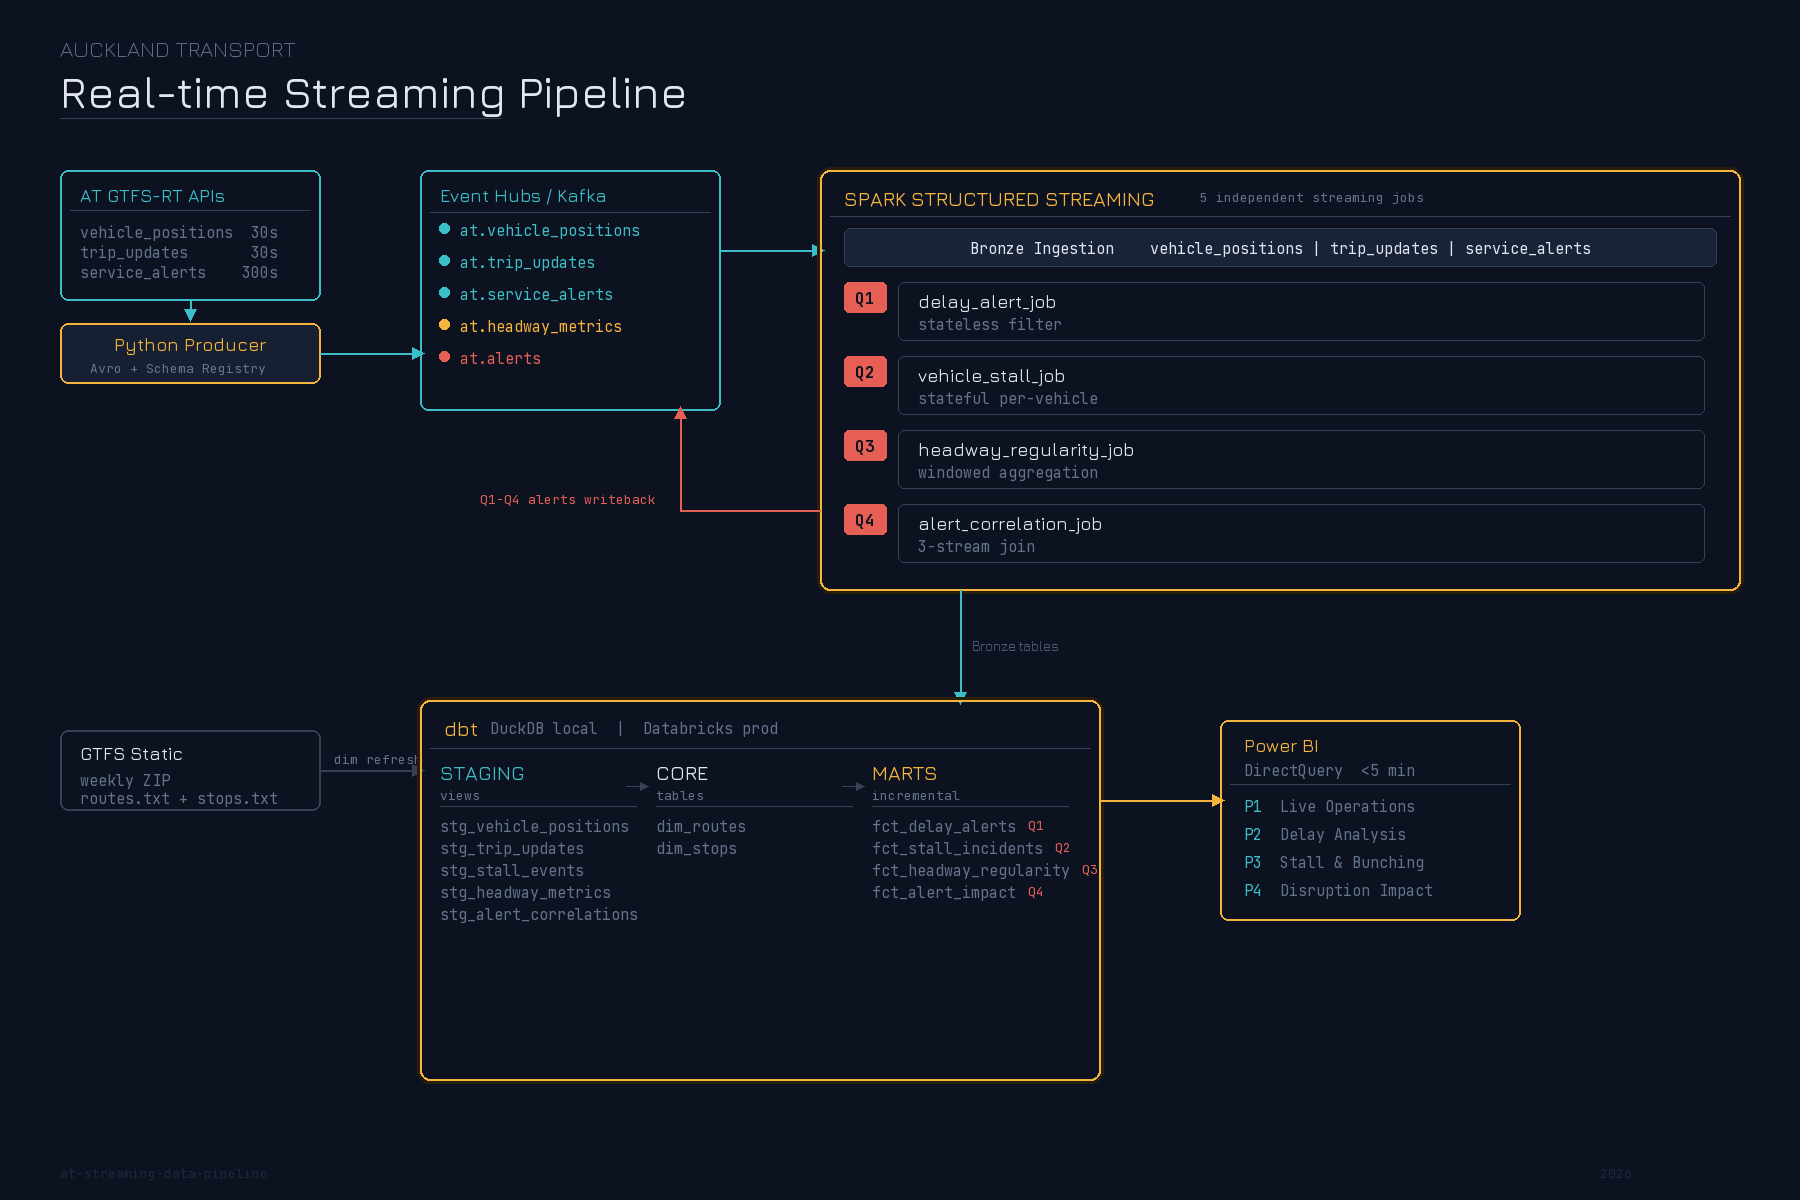
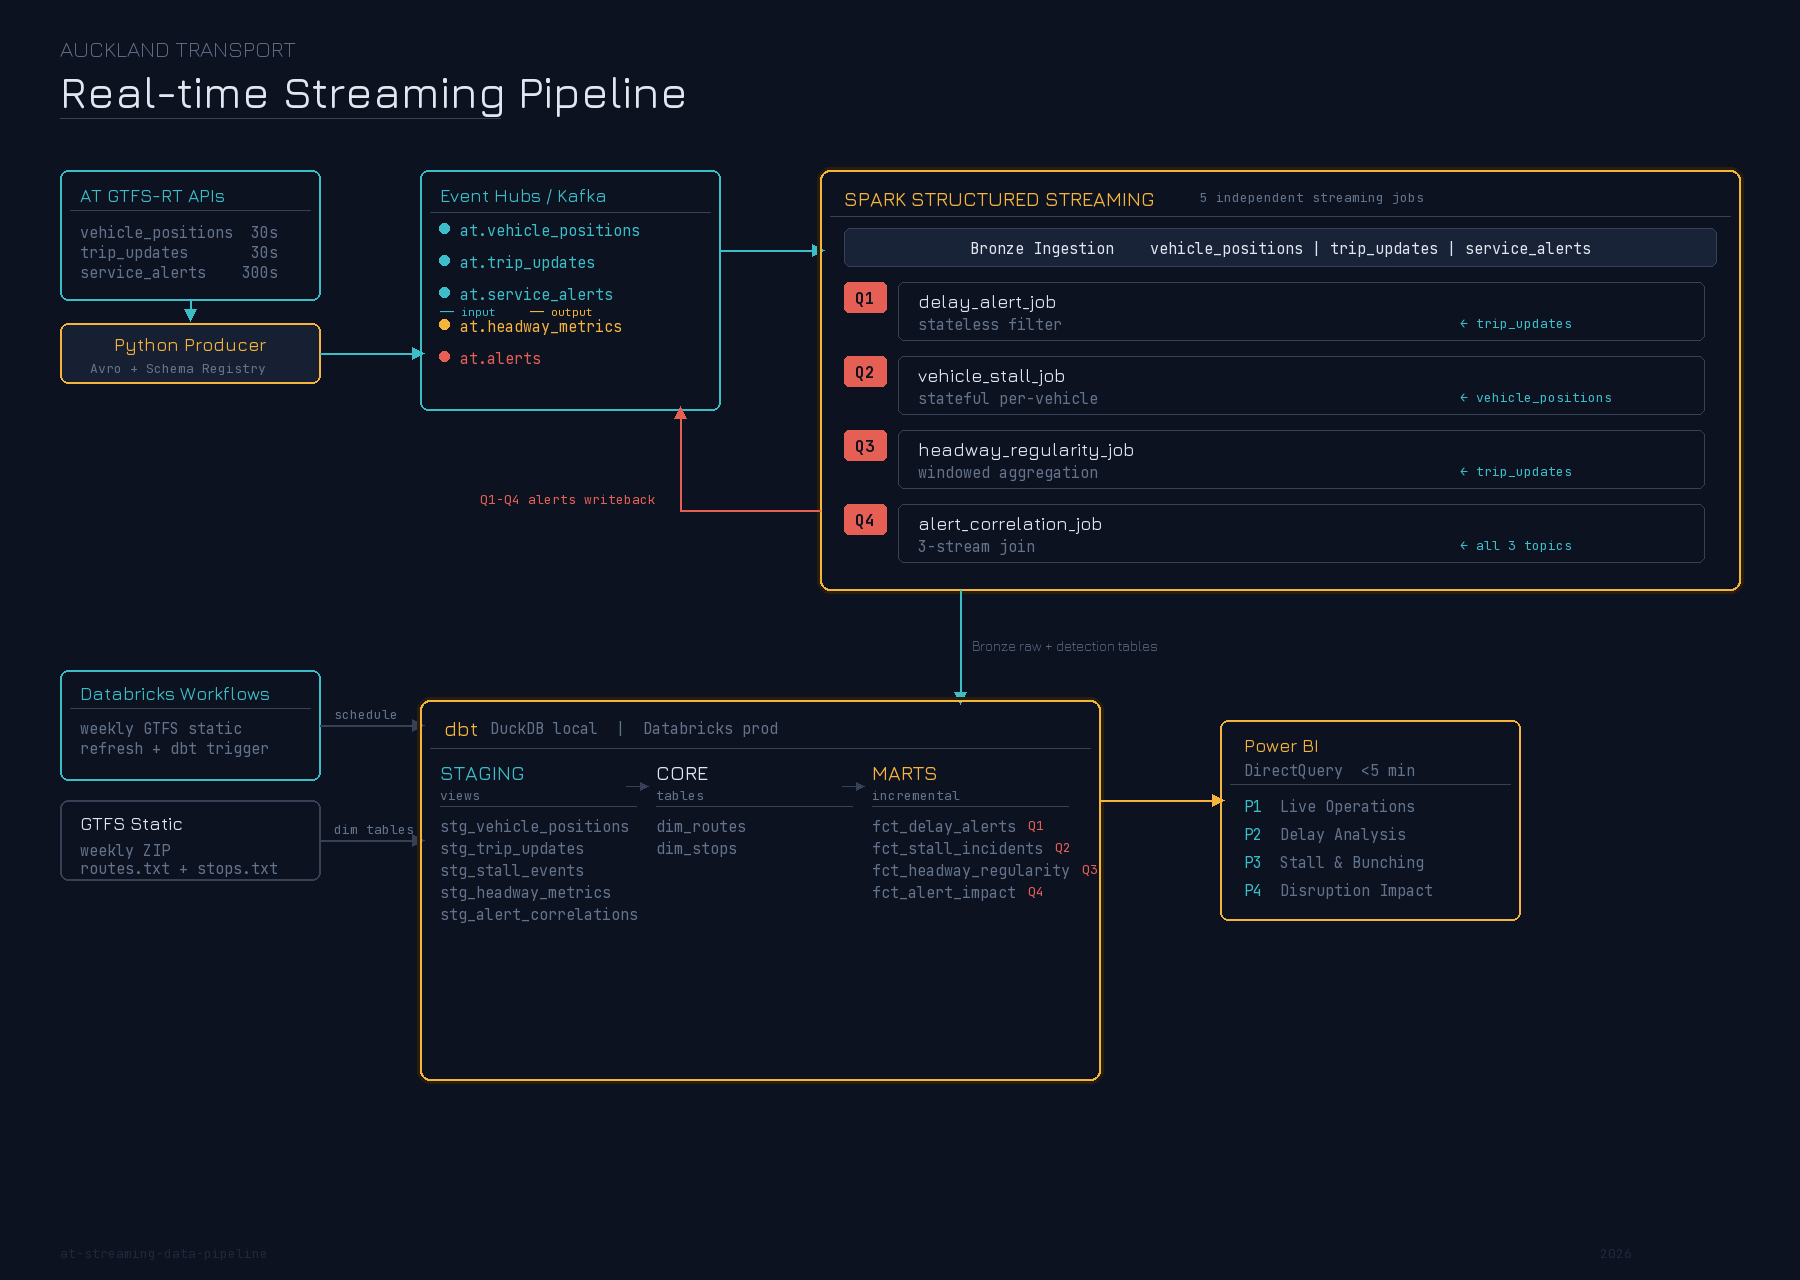
refactor: replace Airflow with Databricks Workflows for batch orchestration

diff --git a/docs/generate_architecture.py b/docs/generate_architecture.py
@@ -2,7 +2,7 @@
 
 from PIL import Image, ImageDraw, ImageFont
 
-W, H = 1800, 1200
+W, H = 1800, 1280
 BG = (12, 18, 32)
 AMBER = (245, 180, 60)
 TEAL = (60, 190, 200)
@@ -23,6 +23,7 @@ f_body = ImageFont.truetype(f"{FONT_DIR}/JetBrainsMono-Regular.ttf", 15)
 f_small = ImageFont.truetype(f"{FONT_DIR}/JetBrainsMono-Regular.ttf", 13)
 f_q = ImageFont.truetype(f"{FONT_DIR}/JetBrainsMono-Bold.ttf", 16)
 f_label = ImageFont.truetype(f"{FONT_DIR}/Jura-Light.ttf", 14)
+f_tiny = ImageFont.truetype(f"{FONT_DIR}/JetBrainsMono-Regular.ttf", 11)
 
 
 def rrect(x, y, w, h, r=8, fill=None, outline=None, width=1):
@@ -104,12 +105,19 @@ topics = [
     ("at.headway_metrics", AMBER),
     ("at.alerts", CORAL),
 ]
+# Track topic y positions for input arrows
+topic_ys = {}
 for i, (t, c) in enumerate(topics):
     ty = kafka_y + 50 + i * 32
+    topic_ys[t] = ty + 8
     dot(kafka_x+24, ty+8, 5, c)
     draw.text((kafka_x+40, ty), t, fill=c, font=f_body)
 
-# Kafka → Spark (horizontal)
+# Input/output labels
+draw.text((kafka_x+20, kafka_y + 50 + 2*32 + 20), "── input", fill=TEAL, font=f_tiny)
+draw.text((kafka_x+110, kafka_y + 50 + 2*32 + 20), "── output", fill=AMBER, font=f_tiny)
+
+# Kafka → Spark (horizontal to Bronze ingestion)
 kafka_right = kafka_x + kafka_w
 spark_x = 820
 spark_conn_y = kafka_y + 80
@@ -127,52 +135,67 @@ draw.text((spark_x+24, spark_y+16), "SPARK STRUCTURED STREAMING", fill=AMBER, fo
 draw.text((spark_x+380, spark_y+18), "5 independent streaming jobs", fill=DIM, font=f_small)
 hline(spark_x+10, spark_x+spark_w-10, spark_y+46, SLATE, 1)
 
-# Bronze ingestion bar — full names
+# Bronze ingestion bar
 rrect(spark_x+24, spark_y+58, spark_w-48, 38, r=6, fill=(25, 35, 55), outline=SLATE, width=1)
 ctxt("Bronze Ingestion    vehicle_positions | trip_updates | service_alerts",
      f_body, spark_x+spark_w//2, spark_y+68, WHITE)
 
-# Q1-Q4 jobs (no dots)
+# Q1-Q4 jobs with source topic annotations
 jobs = [
-    ("Q1", "delay_alert_job", "stateless filter"),
-    ("Q2", "vehicle_stall_job", "stateful per-vehicle"),
-    ("Q3", "headway_regularity_job", "windowed aggregation"),
-    ("Q4", "alert_correlation_job", "3-stream join"),
+    ("Q1", "delay_alert_job", "stateless filter", "← trip_updates"),
+    ("Q2", "vehicle_stall_job", "stateful per-vehicle", "← vehicle_positions"),
+    ("Q3", "headway_regularity_job", "windowed aggregation", "← trip_updates"),
+    ("Q4", "alert_correlation_job", "3-stream join", "← all 3 topics"),
 ]
-for i, (q, name, pattern) in enumerate(jobs):
+for i, (q, name, pattern, source) in enumerate(jobs):
     jy = spark_y + 112 + i * 74
     rrect(spark_x+24, jy, 42, 30, r=5, fill=CORAL)
     ctxt(q, f_q, spark_x+45, jy+5, BG)
     rrect(spark_x+78, jy, spark_w-114, 58, r=6, outline=SLATE, width=1)
     draw.text((spark_x+98, jy+8), name, fill=WHITE, font=f_node)
     draw.text((spark_x+98, jy+32), pattern, fill=DIM, font=f_body)
+    # Source topic annotation on right side of job box
+    draw.text((spark_x+spark_w-280, jy+32), source, fill=TEAL, font=f_small)
 
 # === RED LINE: Spark Q1-Q4 → at.alerts (exits Spark LEFT, one turn up) ===
-# Route: Spark left edge → left to align with Kafka → straight up into Kafka
-red_exit_y = spark_y + 340  # between Q3 and Q4 on left edge
-kafka_alerts_x = kafka_x + kafka_w - 40  # right side of Kafka, near at.alerts
+red_exit_y = spark_y + 340
+kafka_alerts_x = kafka_x + kafka_w - 40
 
-# Horizontal from Spark left edge to kafka_alerts_x
 hline(kafka_alerts_x, spark_x, red_exit_y, CORAL)
-# Straight up into Kafka bottom
 vline(kafka_alerts_x, kafka_y + kafka_h, red_exit_y, CORAL)
 arrow_u(kafka_alerts_x, kafka_y + kafka_h + 2, CORAL, 6)
-# Label
 draw.text((kafka_alerts_x - 200, red_exit_y - 20), "Q1-Q4 alerts writeback", fill=CORAL, font=f_small)
 
-# === BLUE LINE: Spark → dbt (straight down, inside overlap zone) ===
+# === BLUE LINE: Spark → dbt (straight down) ===
 R2 = 700
-# Spark: x=820..1740, dbt: x=420..1100 → overlap: 820..1100
-bridge_x = 960  # inside both Spark and dbt, straight vertical line
+bridge_x = 960
 
 vline(bridge_x, spark_y + spark_h, R2, TEAL)
 arrow_d(bridge_x, R2 - 2, TEAL, 6)
-draw.text((bridge_x + 12, (spark_y + spark_h + R2) // 2 - 8), "Bronze tables", fill=DIM, font=f_label)
+draw.text((bridge_x + 12, (spark_y + spark_h + R2) // 2 - 8),
+          "Bronze raw + detection tables", fill=DIM, font=f_label)
 
 # === ROW 2 ===
 
+# === Databricks Workflows ===
+wf_x, wf_y = 60, R2 - 30
+wf_w, wf_h = 260, 110
+rrect(wf_x, wf_y, wf_w, wf_h, outline=TEAL, width=2)
+draw.text((wf_x+20, wf_y+12), "Databricks Workflows", fill=TEAL, font=f_node)
+hline(wf_x+10, wf_x+wf_w-10, wf_y+38, SLATE, 1)
+draw.text((wf_x+20, wf_y+48), "weekly GTFS static", fill=DIM, font=f_body)
+draw.text((wf_x+20, wf_y+68), "refresh + dbt trigger", fill=DIM, font=f_body)
+
+# Workflows → dbt (horizontal)
+dbt_x = 420
+wf_right = wf_x + wf_w
+wf_conn_y = wf_y + wf_h // 2
+hline(wf_right, dbt_x, wf_conn_y, SLATE, 2)
+arrow_r(dbt_x - 2, wf_conn_y, SLATE, 6)
+draw.text((wf_right + 14, wf_conn_y - 20), "schedule", fill=DIM, font=f_small)
+
 # === GTFS Static ===
-static_x, static_y = 60, R2 + 30
+static_x, static_y = 60, R2 + 100
 static_w, static_h = 260, 80
 rrect(static_x, static_y, static_w, static_h, outline=SLATE, width=2)
 draw.text((static_x+20, static_y+12), "GTFS Static", fill=WHITE, font=f_node)
@@ -181,10 +204,9 @@ draw.text((static_x+20, static_y+58), "routes.txt + stops.txt", fill=DIM, font=f
 
 # GTFS Static → dbt (horizontal)
 static_right = static_x + static_w
-dbt_x = 420
 hline(static_right, dbt_x, static_y + static_h//2, SLATE, 2)
 arrow_r(dbt_x - 2, static_y + static_h//2, SLATE, 6)
-draw.text((static_right + 14, static_y + static_h//2 - 20), "dim refresh", fill=DIM, font=f_small)
+draw.text((static_right + 14, static_y + static_h//2 - 20), "dim tables", fill=DIM, font=f_small)
 
 # === dbt ===
 dbt_w, dbt_h = 680, 380

diff --git a/README.md b/README.md
@@ -4,7 +4,7 @@
 ![Apache Spark](https://img.shields.io/badge/Spark_Structured_Streaming-E25A1C?logo=apachespark&logoColor=white)
 ![Apache Kafka](https://img.shields.io/badge/Kafka-231F20?logo=apachekafka&logoColor=white)
 ![dbt](https://img.shields.io/badge/dbt-FF694B?logo=dbt&logoColor=white)
-![Apache Airflow](https://img.shields.io/badge/Airflow-017CEE?logo=apacheairflow&logoColor=white)
+![Databricks](https://img.shields.io/badge/Databricks_Workflows-FF3621?logo=databricks&logoColor=white)
 ![Delta Lake](https://img.shields.io/badge/Delta_Lake-003366?logo=databricks&logoColor=white)
 ![DuckDB](https://img.shields.io/badge/DuckDB-FFF000?logo=duckdb&logoColor=black)
 ![Power BI](https://img.shields.io/badge/Power_BI-F2C811?logo=powerbi&logoColor=black)
@@ -14,31 +14,30 @@
 
 A streaming-first data pipeline that ingests Auckland Transport GTFS-Realtime data, detects operational anomalies in real time using Spark Structured Streaming, and builds historical analytics with dbt.
 
-Built to demonstrate depth in real-time stream processing — not just batch ETL with a "streaming" label.
+**Why streaming?** AT's GTFS-RT feeds update every 30 seconds. A delay alert delivered 10 minutes late is useless to passengers waiting at the stop; a stalled bus needs dispatch now, not in tomorrow's report. The data naturally demands streaming — this isn't batch ETL with a "streaming" label.
 
 ### Project Status
 
-| Component | Status |
-|-----------|--------|
-| Kafka producer (adaptive polling + Avro) | Done |
-| Spark Bronze ingestion | Done |
-| Spark Q1-Q4 detection jobs | Done |
-| dbt project (skeleton + config) | Done |
-| dbt models (staging, core, marts) | In Progress |
-| GTFS Static dimension tables + seed data | Planned |
-| Airflow DAG (weekly dim refresh) | Planned |
-| Power BI dashboard | Planned |
+| Component                                   | Status  |
+| ------------------------------------------- | ------- |
+| Kafka producer (adaptive polling + Avro)    | Done    |
+| Spark Bronze ingestion                      | Done    |
+| Spark Q1-Q4 detection jobs                  | Done    |
+| dbt project + models (staging, core, marts) | Done    |
+| GTFS Static dimension tables (real AT data) | Planned |
+| Databricks Workflow (weekly dim refresh)    | Planned |
+| Power BI dashboard                          | Planned |
 
 ## What It Does
 
 The pipeline answers **4 real-time operational questions**, each exercising a progressively more advanced Spark Streaming pattern:
 
-| # | Question | Spark Pattern | Why Streaming? |
-|---|----------|---------------|----------------|
-| Q1 | Trip delay > 5 min? Emit passenger-facing alert | Stateless filter + Kafka fan-out | A delay alert delivered 10 min late is useless |
-| Q2 | Vehicle reporting same GPS (±10m) for 3+ readings? | Stateful per-vehicle processing (`applyInPandasWithState`) | Stalled bus needs dispatch now, not tomorrow |
-| Q3 | Are buses bunching on a route? (headway CV in 10-min window) | Sliding window aggregation | Dispatchers can intervene to restore spacing |
-| Q4 | Which vehicles/trips are affected by a service alert? | Multi-stream join (3 topics) | Correlating disruption with impact must be real-time |
+| #   | Question                                                     | Spark Pattern                                              | Why Streaming?                                       |
+| --- | ------------------------------------------------------------ | ---------------------------------------------------------- | ---------------------------------------------------- |
+| Q1  | Trip delay > 5 min? Emit passenger-facing alert              | Stateless filter + Kafka fan-out                           | A delay alert delivered 10 min late is useless       |
+| Q2  | Vehicle reporting same GPS (±10m) for 3+ readings?           | Stateful per-vehicle processing (`applyInPandasWithState`) | Stalled bus needs dispatch now, not tomorrow         |
+| Q3  | Are buses bunching on a route? (headway CV in 10-min window) | Sliding window aggregation                                 | Dispatchers can intervene to restore spacing         |
+| Q4  | Which vehicles/trips are affected by a service alert?        | Multi-stream join (3 topics)                               | Correlating disruption with impact must be real-time |
 
 Each question also has a **historical counterpart** — dbt rolls up the streaming output into Gold fact tables for trend analysis in Power BI.
 
@@ -50,20 +49,20 @@ Each question also has a **historical counterpart** — dbt rolls up the streami
 - **Spark for live detection, dbt for historical rollups** — no Spark Batch layer. The Gold-layer queries are SQL `GROUP BY` aggregations; dbt handles them in seconds.
 - **Avro + Schema Registry** — contract enforcement between producer and streaming consumer. Production pattern used at NZ banks and telcos.
 - **Medallion Architecture** — Bronze (raw), Silver (cleaned), Gold (analytics-ready).
-- **Local dev with DuckDB** — `dbt run` completes in 1-2s locally; cloud deployment uses `dbt-databricks`.
+- **Local/Cloud parity** — local dev uses Redpanda + PySpark + Parquet + DuckDB (zero-cost, `dbt run` in 1-2s); cloud uses Azure Event Hubs + Databricks + Delta Lake + Databricks SQL. The pipeline code is identical — only config changes.
 
 ## Tech Stack
 
-| Component | Technology | Purpose |
-|-----------|-----------|---------|
-| Ingestion | Python + `confluent-kafka` | Poll AT APIs, serialize to Avro, publish to Kafka |
-| Message Broker | Azure Event Hubs (prod) / Redpanda (local) | Kafka-compatible streaming backbone |
-| Schema Registry | Confluent-compatible (Redpanda bundled) | Avro schema evolution + validation |
-| Stream Processing | PySpark Structured Streaming | Bronze ingestion + Q1-Q4 detection jobs |
-| Batch Transform | dbt (`dbt-duckdb` local, `dbt-databricks` prod) | Silver/Gold layer, historical analytics |
-| Orchestration | Apache Airflow | Weekly GTFS static refresh + dbt trigger |
-| Storage | Delta Lake (prod) / Parquet (local) | Medallion architecture |
-| Dashboard | Power BI (DirectQuery) | 4 pages mapped to Q1-Q4 |
+| Layer             | Local Dev                    | Cloud (Azure)          | Purpose                                           |
+| ----------------- | ---------------------------- | ---------------------- | ------------------------------------------------- |
+| Ingestion         | Python + `confluent-kafka`   | Same                   | Poll AT APIs, serialize to Avro, publish to Kafka |
+| Message Broker    | Redpanda (Docker)            | Azure Event Hubs       | Kafka-compatible streaming backbone               |
+| Schema Registry   | Redpanda bundled             | Confluent-compatible   | Avro schema evolution + validation                |
+| Stream Processing | PySpark Structured Streaming | Databricks Spark       | Bronze ingestion + Q1-Q4 detection jobs           |
+| Storage           | Parquet                      | Delta Lake             | Medallion architecture (ACID in prod)             |
+| Batch Transform   | dbt + DuckDB                 | dbt + Databricks SQL   | Silver/Gold layer, historical analytics           |
+| Orchestration     | —                            | Databricks Workflows   | Weekly GTFS static refresh + dbt trigger          |
+| Dashboard         | —                            | Power BI (DirectQuery) | 4 pages mapped to Q1-Q4                           |
 
 ## Project Structure
 
@@ -79,7 +78,7 @@ Each question also has a **historical counterpart** — dbt rolls up the streami
 │       ├── headway_regularity_job.py  # Q3: sliding window aggregation
 │       ├── alert_correlation_job.py   # Q4: chained 3-stream join
 │       └── _shutdown.py            # Shared graceful shutdown
-├── transform/                      # dbt project (WIP — skeleton + config done, models in progress)
+├── transform/                      # dbt project
 │   ├── models/
 │   │   ├── staging/                # Bronze → Silver (clean views)
 │   │   ├── core/                   # Dimension tables
@@ -90,7 +89,8 @@ Each question also has a **historical counterpart** — dbt rolls up the streami
 ├── infrastructure/
 │   └── docker-compose.yml          # Redpanda + Console (local Kafka)
 ├── tests/                          # pytest + PySpark unit tests
-└── dags/                           # Airflow DAGs (WIP)
+├── workflows/                      # Databricks Workflow notebooks (planned)
+└── Makefile                        # Shortcuts for all common operations
 ```
 
 ## Quick Start
@@ -114,42 +114,39 @@ uv sync
 cp .env.example .env
 
 # start local Kafka (Redpanda)
-docker compose -f infrastructure/docker-compose.yml up -d
+make kafka-up
 
 # start the producer (ingests AT real-time data → Kafka)
-uv run python src/ingestion/at_producer.py
+make run-producer
 ```
+
+Streaming output lands in `./data/bronze/` (Parquet) with checkpoints in `./data/checkpoints/`. Both paths are configurable via `.env`.
 
 ### Run Streaming Jobs
 
-Each job runs as a separate long-lived process:
+Each job runs as a separate long-lived process. All support graceful shutdown via `Ctrl+C`.
 
 ```bash
-# Bronze ingestion (raw events → Parquet/Delta)
-uv run python src/streaming/bronze_ingestion.py
-
-# Q1-Q4 detection jobs
-uv run python src/streaming/delay_alert_job.py
-uv run python src/streaming/vehicle_stall_job.py
-uv run python src/streaming/headway_regularity_job.py
-uv run python src/streaming/alert_correlation_job.py
+make run-bronze   # Bronze ingestion (raw events → Parquet)
+make run-q1       # Q1: delay alerts (stateless filter)
+make run-q2       # Q2: vehicle stalls (stateful per-vehicle)
+make run-q3       # Q3: headway regularity (windowed aggregation)
+make run-q4       # Q4: alert correlation (3-stream join)
 ```
-
-All jobs support graceful shutdown via `Ctrl+C` (SIGINT/SIGTERM).
 
 ### Run dbt (Historical Analytics)
 
 ```bash
-cd transform
-uv run dbt deps      # install dbt packages
-uv run dbt run       # build staging → core → marts
-uv run dbt test      # run data quality tests
+make dbt-deps     # install dbt packages
+make dbt-seed     # load dimension seed data
+make dbt-run      # build staging → core → marts
+make dbt-test     # run data quality tests
 ```
 
 ### Run Tests
 
 ```bash
-uv run pytest -v
+make test
 ```
 
 ## Streaming Job Details
@@ -168,9 +165,11 @@ Chained 3-stream join: `(service_alerts JOIN vehicle_positions) on route_id`, th
 
 ## Data Model
 
-**Bronze**: Raw event tables (VP, TU, SA) + detection output tables (Q1-Q4). Written by Spark Streaming.
+**Bronze**: Raw event tables (VP, TU, SA) + detection output tables (Q1-Q4). Written by Spark Structured Streaming.
 
-**Silver**: Cleaned views over Bronze. Joins with dimension tables for route names. No business logic flags.
+**Staging**: Cleaned views over Bronze raw tables and Bronze detection tables. Also includes `stg_gtfs_routes` / `stg_gtfs_stops` sourced from GTFS Static seed data (not Bronze).
+
+**Core**: Dimension tables (`dim_routes`, `dim_stops`) built from GTFS Static seed data via staging.
 
 **Gold**: Historical fact tables (incremental). Each maps to a business question:
 - `fct_delay_alerts` — Q1: delay events by route over time
